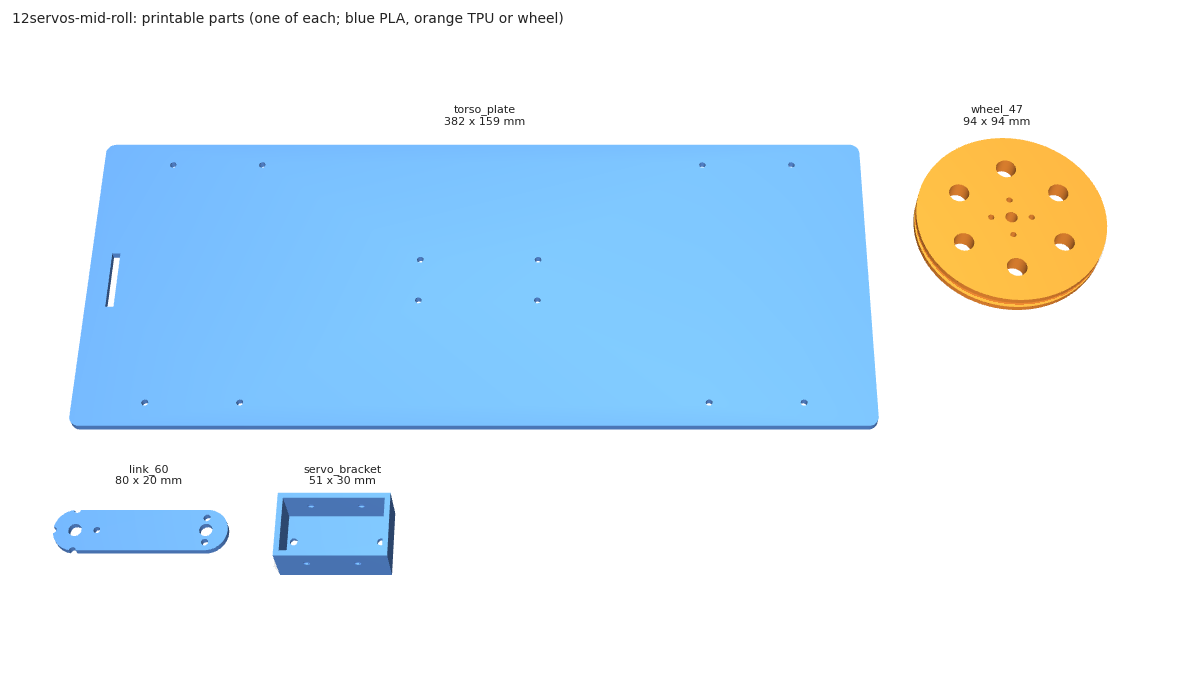
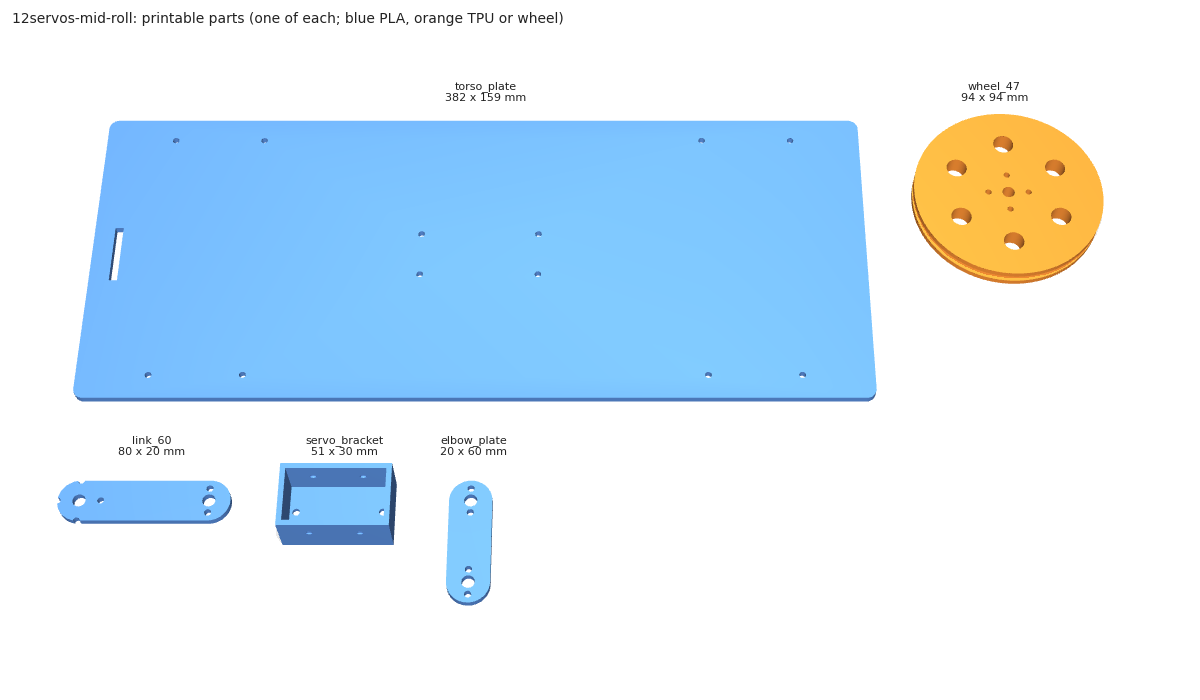
Add printed elbow plates so side modules no longer float off the link

diff --git a/darwinbot/export.py b/darwinbot/export.py
@@ -40,30 +40,34 @@ def mount_positions_mm(morph):
 
 
 def part_counts(morph):
-    """Printed parts needed: link lengths (mm), wheel radii (mm) and feet."""
+    """Printed parts needed: link lengths (mm), wheel radii (mm), feet and
+    elbow plates (one per module on a side slot of a link)."""
     cm = morph.child_map()
-    links, wheels, feet = Counter(), Counter(), 0
+    links, wheels, feet, elbows = Counter(), Counter(), 0, 0
     for i, n in morph.nodes.items():
         if n.kind in ("joint", "link"):
             links[_mm(n.length)] += 1
+            elbows += sum(1 for slot in cm.get(i, {}) if slot)
             if i not in cm:
                 feet += 1            # a free tip ends in an implicit foot
         elif n.kind == "wheel":
             wheels[_mm(n.wheel_rad)] += 1
         elif n.kind == "foot":
             feet += 1
-    return links, wheels, feet
+    return links, wheels, feet, elbows
 
 
 def bom_rows(morph):
     """Bill of materials as (item, quantity, note) rows."""
     n = morph.n_servos
-    links, wheels, n_feet = part_counts(morph)
+    links, wheels, n_feet, n_elbows = part_counts(morph)
     rows = [("Feetech STS3215 servo, 7.4 V", n, "bus servo, ID 1..%d" % n),
             ("torso_plate.stl", 1, "PLA")]
     for length, q in sorted(links.items()):
         rows.append((f"link_{length}.stl", q, "PLA"))
     rows.append(("servo_bracket.stl", n, "PLA, one per servo"))
+    if n_elbows:
+        rows.append(("elbow_plate.stl", n_elbows, "PLA, one per side module"))
     if n_feet:
         rows.append(("foot.stl", n_feet, "TPU"))
     for r, q in sorted(wheels.items()):
@@ -72,7 +76,8 @@ def bom_rows(morph):
     rows += [("ESP32 servo driver board", 1, "see docs/hardware-dados.md"),
              ("2S LiPo battery 7.4 V", 1, "1000 to 1500 mAh"),
              ("Step-down regulator", 1, "from 7.4 V to the board supply"),
-             ("M3 screws", 4 * n + 4, "estimate: 4 per servo + 4 per board")]
+             ("M3 screws", 4 * n + 4 * n_elbows + 4,
+              "estimate: 4 per servo, 4 per elbow plate, 4 for the board")]
     return rows
 
 
@@ -161,12 +166,14 @@ def _write_stls(morph, out_dir):
     d = os.path.join(out_dir, "parts")
     os.makedirs(d, exist_ok=True)
     out = lambda name, part: parts.export_stl(part, os.path.join(d, name))
-    links, wheels, feet = part_counts(morph)
+    links, wheels, feet, elbows = part_counts(morph)
     out("torso_plate.stl", parts.torso_plate(morph.body_length * 1000, morph.body_width * 1000,
                                              mount_positions_mm(morph)))
     for length in sorted(links):
         out(f"link_{length}.stl", parts.link(length))
     out("servo_bracket.stl", parts.servo_bracket())
+    if elbows:
+        out("elbow_plate.stl", parts.elbow_plate())
     if feet:
         out("foot.stl", parts.foot())
     for r in sorted(wheels):

diff --git a/darwinbot/builder.py b/darwinbot/builder.py
@@ -16,7 +16,8 @@ The layout is a list of morphology.Actuator(slot, kind, axis) in model order
 Parts are real: every joint is a Feetech STS3215 (7.4 V) with the torque and
 speed limits of its data sheet, minus a safety margin. Each servo adds a 60 g
 box, the torso carries a payload (ESP32, 2S LiPo, regulator), and links are
-printed. See docs/hardware-dados.md.
+printed. A child on a side slot of a link hangs from a printed elbow plate that
+bridges the ELBOW offset, so no module floats. See docs/hardware-dados.md.
 
 Self-collision is ON: robot geoms (contype 2, conaffinity 3) touch each other
 and the terrain (1, 1). MuJoCo already skips parent/child pairs. A body whose
@@ -28,7 +29,7 @@ from typing import Tuple
 import numpy as np
 
 from darwinbot.controller import SERVO_SPEED, SERVO_TORQUE
-from darwinbot.morphology import (AXIS_LOCAL, FOOT_RADIUS, LINK_RADIUS,
+from darwinbot.morphology import (AXIS_LOCAL, ELBOW, FOOT_RADIUS, LINK_RADIUS,
                                   SERVO_BOX, TORSO_HEIGHT, Actuator,
                                   ActuatorLayout, Morphology)
 
@@ -76,6 +77,16 @@ def _link_geom(length: float) -> str:
             f'rgba="0.55 0.60 0.70 1" {ROBOT_GEOM}/>')
 
 
+def _elbow_geom(length: float, slot: int, child: int) -> str:
+    """Printed elbow plate from the link tip to the side slot `slot` (1 left,
+    2 right), where the child module is mounted."""
+    side = 1.0 if slot == 1 else -1.0
+    return (f'<geom name="elbow{child}" type="box" '
+            f'pos="{_f(length, side * ELBOW / 2, 0)}" '
+            f'size="{_f(LINK_RADIUS, ELBOW / 2, LINK_RADIUS)}" '
+            f'density="{LIMB_DENSITY}" rgba="0.55 0.60 0.70 1" {ROBOT_GEOM}/>')
+
+
 def _node_xml(morph: Morphology, node, frames, children, actuators: list,
               layout: ActuatorLayout) -> str:
     """MJCF body of one module and, recursively, of everything below it."""
@@ -115,6 +126,9 @@ def _node_xml(morph: Morphology, node, frames, children, actuators: list,
     elif node.kind == "foot":
         inner = (f'<geom type="sphere" size="{FOOT_RADIUS:.4f}" density="{LIMB_DENSITY}" '
                  f'rgba="0.2 0.2 0.2 1" {ROBOT_GEOM}/>')
+    if node.kind in ("joint", "link"):
+        inner += "".join(f"\n{_elbow_geom(node.length, slot, c)}"
+                         for slot, c in sorted(children.get(i, {}).items()) if slot)
     # Actuators follow the depth first order of Morphology.order.
     below = "".join(
         _node_xml(morph, morph.nodes[c], frames, children, actuators, layout)

diff --git a/darwinbot/parts.py b/darwinbot/parts.py
@@ -2,7 +2,7 @@
 parts.py
 --------
 Parametric printable parts (build123d) for the real DarwinBot: servo bracket,
-link, TPU foot, wheel and torso plate (one mount per used core slot). All dimensions in mm.
+link, elbow plate, TPU foot, wheel and torso plate (one mount per used core slot). All dimensions in mm.
 
 Conventions: a link lies along +X with the horn axis at the origin and the
 next servo axis at x = length_mm; servo and wheel axes point along Z.
@@ -33,6 +33,7 @@ PLATE_T = 4.0           # link / plate thickness
 LINK_W = 20.0           # link width = end boss diameter
 M3 = 3.2                # M3 clearance hole
 LINK_LENGTHS = (60, 80, 100, 120)
+ELBOW_MM = 40.0          # side slot offset, morphology.ELBOW in mm
 WHEEL_T = 10.0          # wheel thickness
 FOOT_R = 9.0            # foot cap radius
 FOOT_SOCKET_D = 12.0    # PLACEHOLDER: shin tube/socket diameter
@@ -80,6 +81,23 @@ def link(length_mm: float) -> Part:
         part -= Pos(length_mm, dy, 0) * Cylinder(M3 / 2, PLATE_T * 3)
     part -= Pos(length_mm, 0, 0) * Cylinder(HORN_BORE_D / 2, PLATE_T * 3)
     return part
+
+
+def _link_end_holes(x: float, y: float) -> Part:
+    """Cutter: the bracket end pattern of a link (two M3 holes and the cable bore)."""
+    cut = Pos(x, y, 0) * Cylinder(HORN_BORE_D / 2, PLATE_T * 3)
+    for dy in (-6, 6):
+        cut += Pos(x, y + dy, 0) * Cylinder(M3 / 2, PLATE_T * 3)
+    return cut
+
+
+def elbow_plate() -> Part:
+    """Plate bolted on a link end (origin) that carries a side module ELBOW_MM
+    away along +Y, with the link end hole pattern repeated there."""
+    body = Pos(0, ELBOW_MM / 2, 0) * Box(
+        LINK_W, ELBOW_MM + LINK_W, PLATE_T, align=(Align.CENTER, Align.CENTER, Align.MIN))
+    part = fillet(body.edges().filter_by(lambda e: abs(e.length - PLATE_T) < 1e-6), LINK_W / 2 - 0.01)
+    return part - _link_end_holes(0, 0) - _link_end_holes(0, ELBOW_MM)
 
 
 def foot() -> Part:

diff --git a/tests/test_sim.py b/tests/test_sim.py
@@ -87,6 +87,18 @@ def test_overlapping_legs_are_not_buildable():
     assert Episode(spread, te.flat(), seconds=1.0).buildable
 
 
+def test_side_modules_hang_from_an_elbow_plate():
+    morph = mo.template(2, wheels=True)
+    side = [i for i, n in morph.nodes.items()
+            if n.parent > 0 and n.slot and morph.nodes[n.parent].kind in ("joint", "link")]
+    ep = Episode(morph, te.flat(), seconds=1.0)
+
+    assert side and ep.buildable
+    for i in side:
+        g = ep.model.geom(f"elbow{i}")
+        assert g.bodyid[0] == ep.model.body(f"n{morph.nodes[i].parent}").id
+
+
 def test_unbuildable_body_scores_unstable_without_simulating():
     from darwinbot.inner import optimise_controller
     morph = mo.template(2, wheels=True, wheel_rad=0.06, body_length=0.15)

diff --git a/tests/test_export.py b/tests/test_export.py
@@ -56,6 +56,9 @@ def test_bom_counts_from_tree():
     wheels = sum(q for k, q in rows.items() if k.startswith("wheel_"))
     assert wheels == morph.n_wheels
     assert rows["servo_bracket.stl"] == morph.n_servos
+    side = sum(1 for n in morph.nodes.values()
+               if n.parent > 0 and n.slot and morph.nodes[n.parent].kind in ("joint", "link"))
+    assert side > 0 and rows["elbow_plate.stl"] == side
     # the explicit foot plus the free tip of every joint without a child
     assert rows["foot.stl"] >= 1
 

diff --git a/tests/test_parts.py b/tests/test_parts.py
@@ -27,6 +27,14 @@ def test_link_axis_distance(length):
     assert p.bounding_box().min.X == pytest.approx(-parts.LINK_W / 2, abs=0.2)
 
 
+def test_elbow_plate_matches_simulation():
+    from darwinbot.morphology import ELBOW
+    p = parts.elbow_plate()
+    _ok(p)
+    assert parts.ELBOW_MM == pytest.approx(ELBOW * 1000)
+    assert p.bounding_box().size.Y == pytest.approx(parts.ELBOW_MM + parts.LINK_W, abs=0.2)
+
+
 def test_foot():
     _ok(parts.foot())
 

diff --git a/README.md b/README.md
@@ -314,7 +314,8 @@ the ESP32.
 Every simulated robot is built from parts you can buy or print: Feetech
 STS3215 servos at 7.4 V (1.91 N*m stall, 5.45 rad/s, run at 70% of the torque),
 60 g per servo, an ESP32 + 2S LiPo + regulator payload of 0.13 kg in the torso,
-printed links of 60, 80, 100 or 120 mm, and self-collision between limbs. The
+printed links of 60, 80, 100 or 120 mm, printed elbow plates that carry the
+modules mounted on the side of a link, and self-collision between limbs. The
 sources and the values still to be checked are in `docs/hardware-dados.md`.
 
 ## Terrains
@@ -368,7 +369,7 @@ Servo counts go from 1 to 16 and the bodies are often asymmetric: wheeled
 quadrupeds, a tilted body that rolls on one side wheel, long-legged spiders.
 25 types move forward (fitness above 0.05), 8 of them with legs carrying most
 of the ground contact. The best of those, `13servos-low-trot`, loses 1% on
-randomised physics in `validate.py` (PASS) and exports as 13 servos and 31
+randomised physics in `validate.py` (PASS) and exports as 13 servos and 41
 printed parts. Wheels still win on speed, by a factor of about 2.4. The
 filled-cell count was still rising linearly when the run stopped, so longer
 runs should find more.
